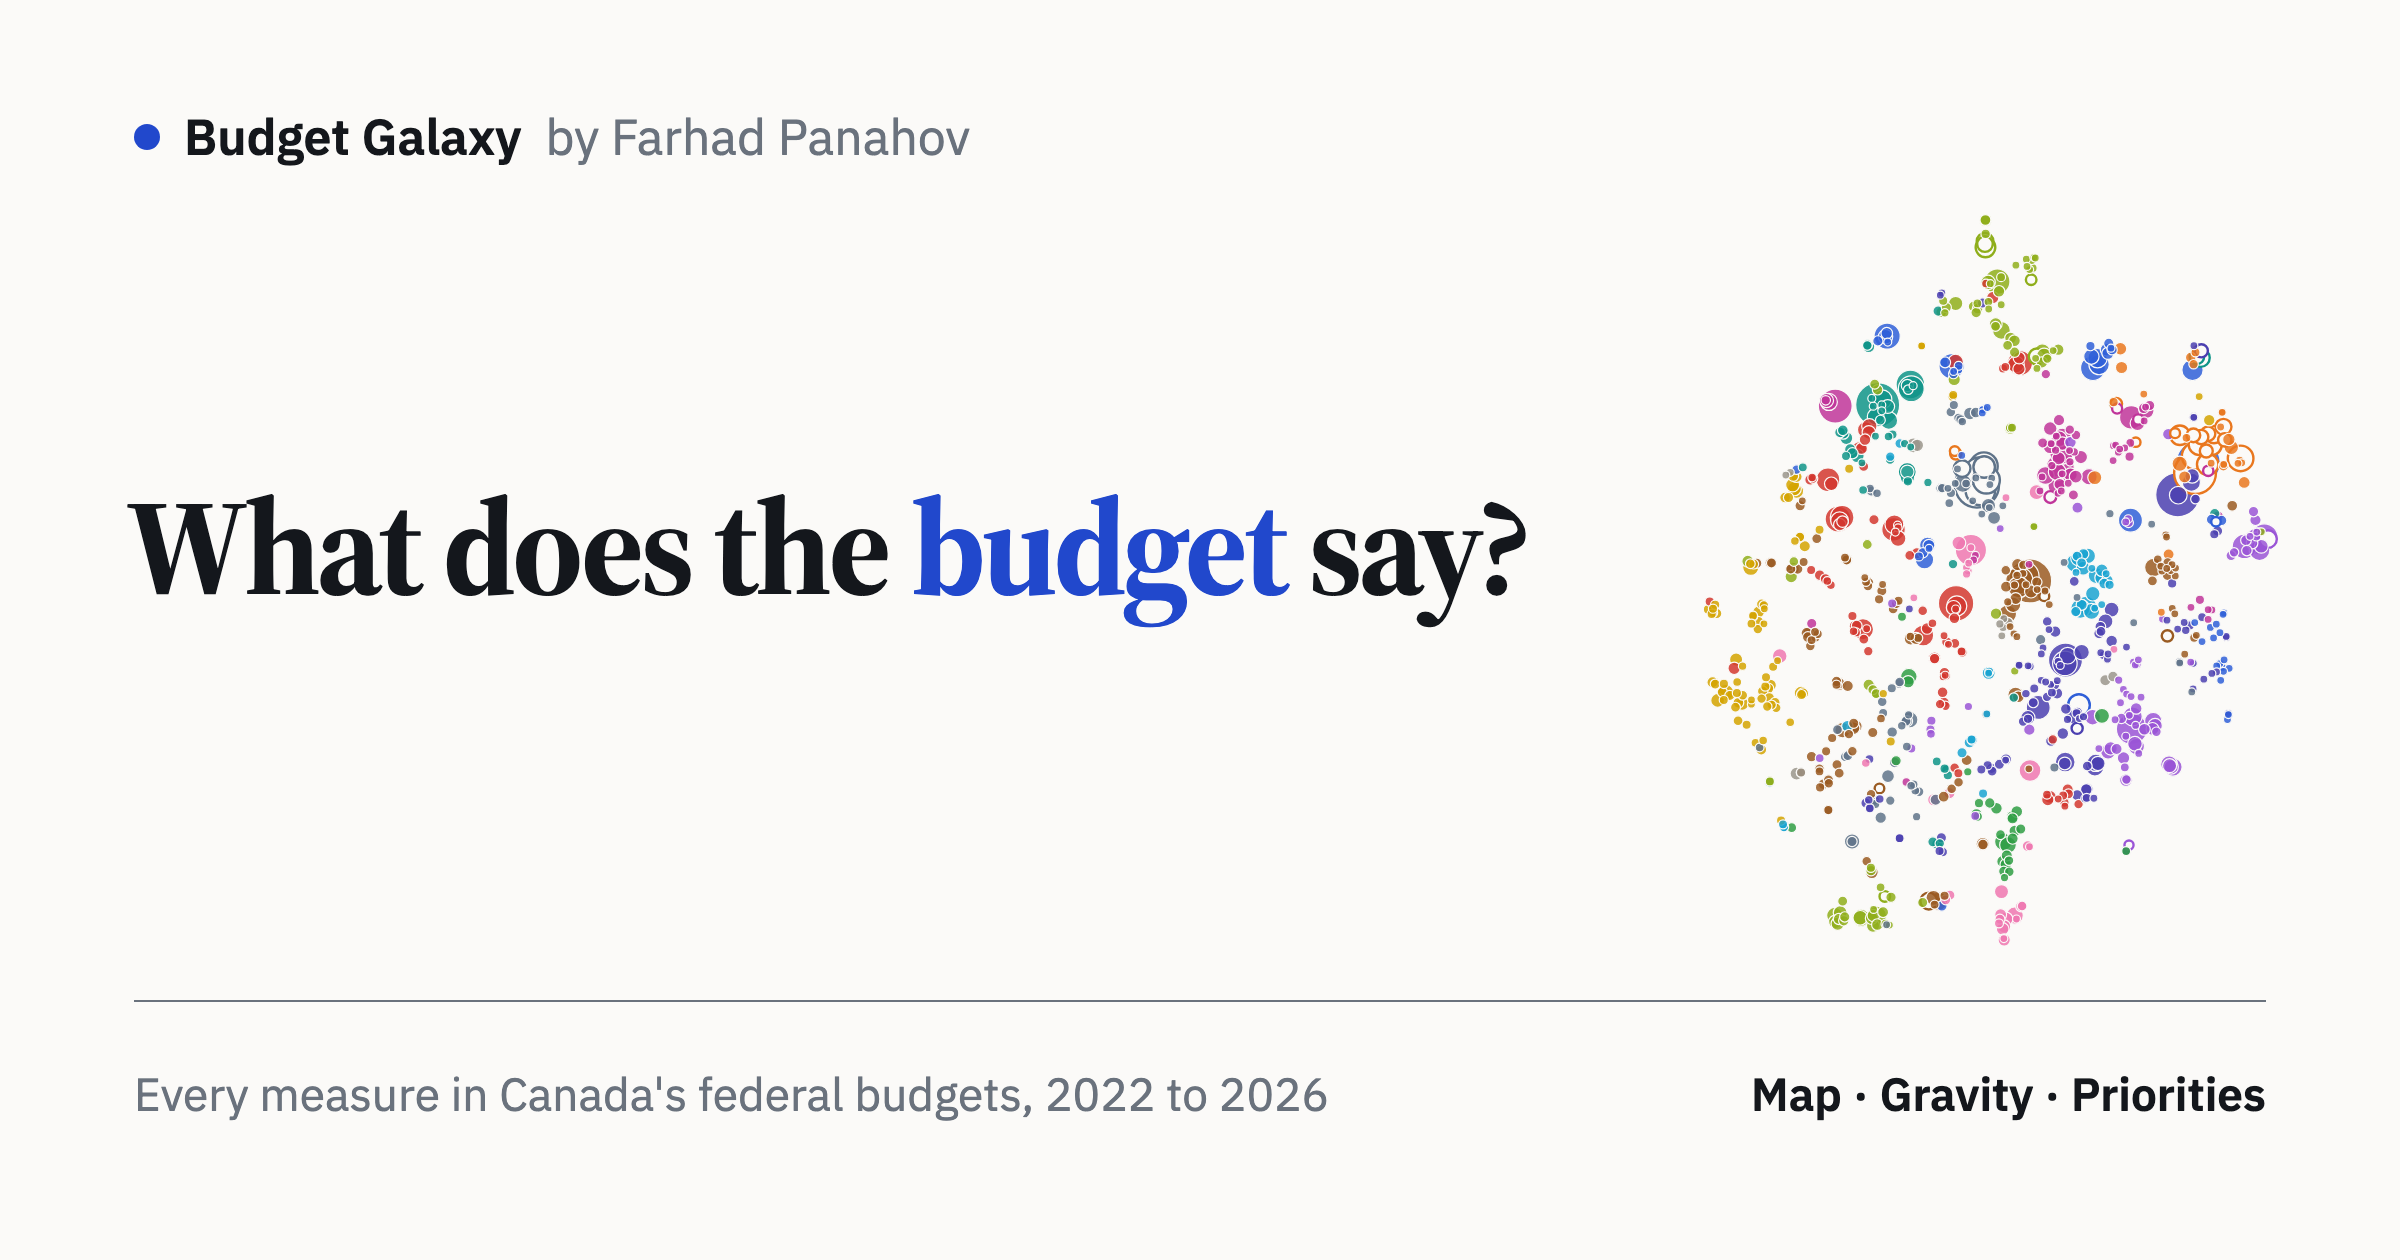
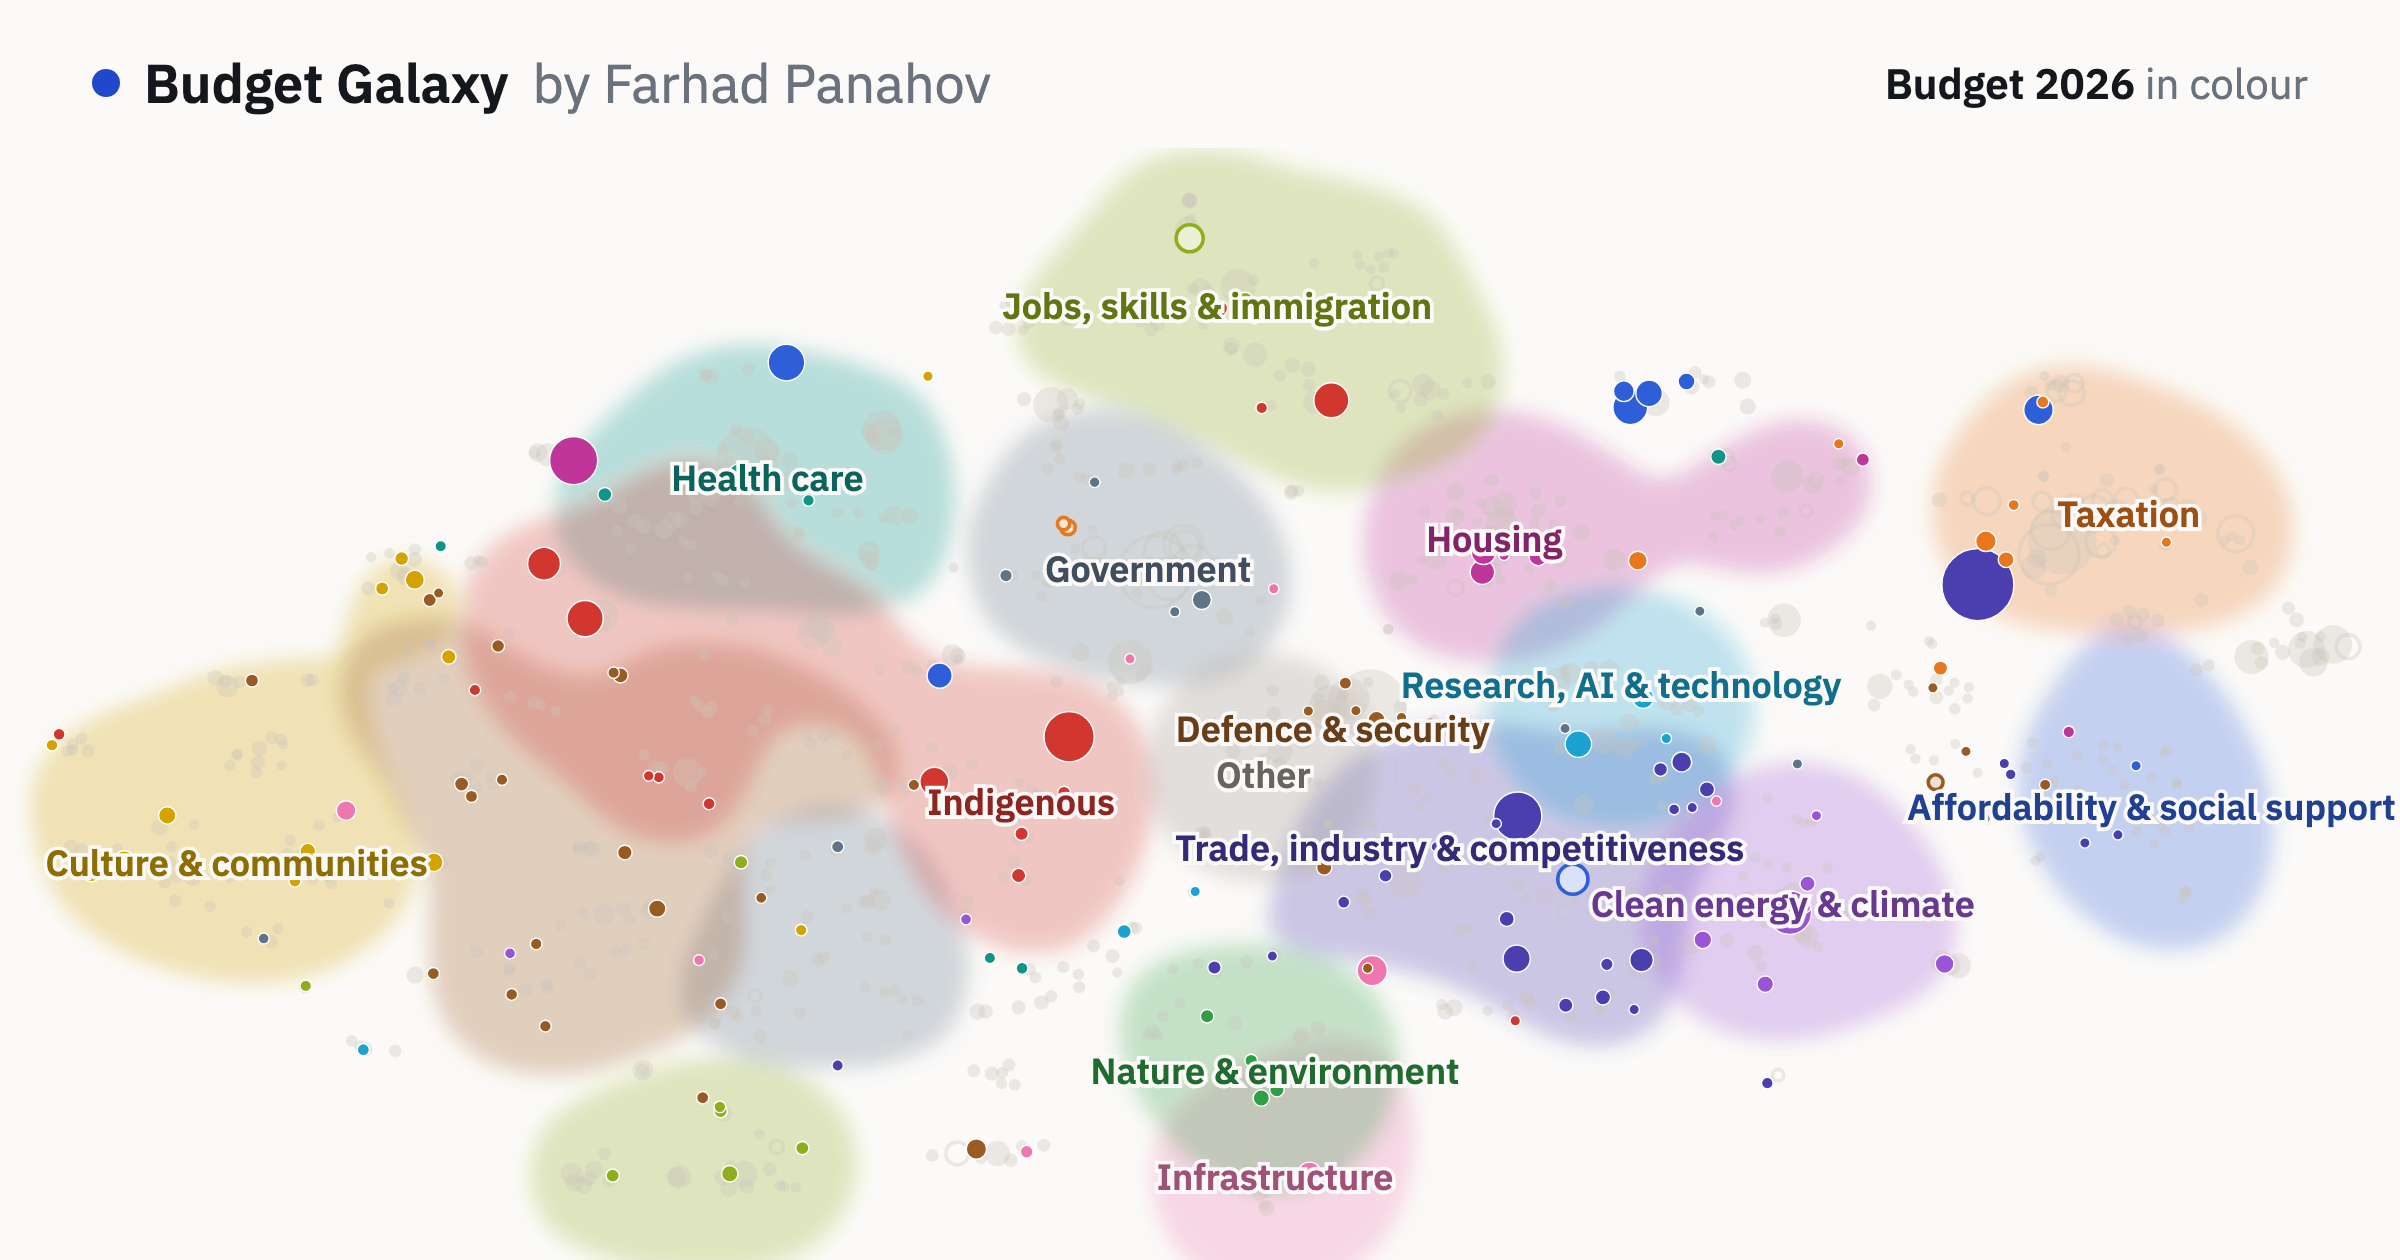
Preview picture: the Map, with the latest budget in colour

diff --git a/tools/og.html b/tools/og.html
@@ -2,33 +2,31 @@
 <html lang="en">
 <head>
 <meta charset="utf-8">
-<!-- The preview picture shown when the page's link is shared (site/og.png), in EconNobel's style: the name line, the
-     title, a grey rule and one line underneath; on the right, every measure on the map (from site/galaxy.json).
-     Rendered at 1200 x 630, twice as sharp (2400 x 1260), by headless Chrome; the command is in the README. -->
-<link href="https://fonts.googleapis.com/css2?family=Source+Serif+4:opsz,wght@8..60,700&family=IBM+Plex+Sans:wght@400;600&display=swap" rel="stylesheet">
+<!-- The preview picture shown when the page's link is shared (site/og.png): the Map view as on the page (shaded themes,
+     every measure as a dot, theme names), with the page's name on top left. The latest budget's measures are in colour and
+     the rest faint, as on the page (?year=2025 picks another budget, ?year=all colours every measure). Data:
+     site/galaxy.json. Rendered at
+     1200 x 630, twice as sharp (2400 x 1260), by headless Chrome; the command is in the README. -->
+<link href="https://fonts.googleapis.com/css2?family=IBM+Plex+Sans:wght@400;600&display=swap" rel="stylesheet">
 <style>
   html, body { margin: 0; width: 1200px; height: 630px; overflow: hidden; background: #fbfaf8; }
   body { position: relative; font-family: "IBM Plex Sans", sans-serif; color: #14171c; }
-  .brand { position: absolute; left: 67px; top: 52px; font-size: 25px; display: flex; align-items: center; gap: 12px; }
-  .brand .dot { width: 13px; height: 13px; border-radius: 50%; background: #2148cc; }
+  .top { position: absolute; left: 46px; right: 46px; top: 24px; display: flex; justify-content: space-between; align-items: center; }
+  .brand { display: flex; align-items: center; gap: 12px; font-size: 27px; }
+  .brand .dot { width: 14px; height: 14px; border-radius: 50%; background: #2148cc; }
   .brand b { font-weight: 600; }
   .brand span.by { color: #6a727d; }
-  h1 { position: absolute; left: 63px; top: 236px; margin: 0; font: 700 68px/1.1 "Source Serif 4", serif; letter-spacing: -.03em; }
-  h1 span { color: #2148cc; }
-  .rule { position: absolute; left: 67px; right: 67px; top: 500px; height: 1px; background: #6a727d; }
-  .foot { position: absolute; left: 67px; right: 67px; top: 532px; display: flex; justify-content: space-between; font-size: 23px; color: #6a727d; }
-  .foot b { color: #14171c; font-weight: 600; }
-  svg { position: absolute; right: 56px; top: 100px; }
+  .note { font-size: 21px; color: #6a727d; }
+  .note b { color: #14171c; font-weight: 600; }
+  svg { position: absolute; left: 0; top: 74px; }
 </style>
 </head>
 <body>
-  <div class="brand"><span class="dot"></span><b>Budget Galaxy</b><span class="by">by Farhad Panahov</span></div>
-  <h1>What does the <span>budget</span> say?</h1>
-  <svg id="g" width="300" height="380"></svg>
-  <div class="rule"></div>
-  <div class="foot"><span>Every measure in Canada's federal budgets, 2022 to 2026</span><span><b>Map · Gravity · Priorities</b></span></div>
+  <div class="top"><div class="brand"><span class="dot"></span><b>Budget Galaxy</b><span class="by">by Farhad Panahov</span></div><div class="note" id="note"></div></div>
+  <svg id="map" width="1200" height="556"></svg>
+<script src="https://cdn.jsdelivr.net/npm/d3@7.9.0/dist/d3.min.js"></script>
 <script>
-// the page's theme colours (site/index.html)
+// the page's theme colours and map settings (site/index.html)
 const COLOURS = {
   "Defence & security": "#9a5b22", "Housing": "#c0359a", "Health care": "#0f9488", "Affordability & social support": "#2f5fd8",
   "Jobs, skills & immigration": "#8fae1b", "Indigenous": "#d2372f", "Infrastructure": "#ee77b0",
@@ -36,19 +34,54 @@ const COLOURS = {
   "Research, AI & technology": "#1aa3d1", "Taxation": "#e9771e", "Culture & communities": "#d4a300", "Government": "#5f7389",
   "Other": "#9a958c",
 };
+const OFF = "#c9c4bb", W = 1200, H = 556, pad = 26, FS = 18;
+const asked = new URLSearchParams(location.search).get("year");   // none: the latest budget; "all": every measure in colour
 fetch("../site/galaxy.json").then((r) => r.json()).then((d) => {
-  const svg = document.getElementById("g"), W = 300, H = 380, pad = 10, NS = "http://www.w3.org/2000/svg";
-  const r = (m) => (m.money == null ? 2 : Math.min(11, 2.1 + 1.9 * Math.sqrt(Math.abs(m.money))));
-  // biggest first, so small dots sit on top
-  d.measures.slice().sort((a, b) => Math.abs(b.money || 0) - Math.abs(a.money || 0)).forEach((m) => {
-    const c = document.createElementNS(NS, "circle");
-    c.setAttribute("cx", pad + m.x * (W - 2 * pad)); c.setAttribute("cy", pad + (1 - m.y) * (H - 2 * pad)); c.setAttribute("r", r(m));
-    const col = COLOURS[d.categories[m.cat].name];
-    if (m.money != null && m.money < 0) { c.setAttribute("fill", "#fbfaf8"); c.setAttribute("stroke", col); c.setAttribute("stroke-width", 1.2); }
-    else { c.setAttribute("fill", col); c.setAttribute("fill-opacity", 0.85); c.setAttribute("stroke", "#fbfaf8"); c.setAttribute("stroke-width", 0.6); }
-    svg.append(c);
+  const M = d.measures, C = d.categories, pick = asked === "all" ? null : +asked || d.years[d.years.length - 1];
+  C.forEach((c) => { c.colour = COLOURS[c.name] || "#858c96"; });
+  document.getElementById("note").innerHTML = pick
+    ? `<b>Budget ${pick}</b> in colour`
+    : `Every measure in Canada's federal budgets, ${d.years[0]} to ${d.years[d.years.length - 1]}`;
+  const svg = d3.select("#map"), x = d3.scaleLinear([0, 1], [pad, W - pad]), y = d3.scaleLinear([0, 1], [H - pad, pad]);
+  svg.append("defs").html(`<filter id="soft" x="-10%" y="-10%" width="120%" height="120%"><feGaussianBlur stdDeviation="5"/></filter>`);
+  // each theme's area: a smoothed density of its dots, cut at about a fifth of its peak; the patch holding most of its
+  // measures, plus any other holding a quarter or more of them
+  const geo = d3.geoPath(), bw = Math.max(14, 0.028 * W);
+  const shapes = C.map((c) => {
+    const pts = M.filter((m) => m.cat === c.id);
+    const cs = d3.contourDensity().x((m) => x(m.x)).y((m) => y(m.y)).size([W, H]).bandwidth(bw).thresholds(20)(pts);
+    const peak = cs[cs.length - 1].value, shape = cs.find((s) => s.value >= peak * 0.3) || cs[0];
+    const counted = shape.coordinates.map((poly) => ({ poly, n: pts.filter((m) => d3.polygonContains(poly[0], [x(m.x), y(m.y)])).length }));
+    const most = d3.max(counted, (p) => p.n);
+    return { c, shape: { type: "MultiPolygon", coordinates: counted.filter((p) => p.n === most || p.n >= 0.25 * pts.length).map((p) => p.poly) } };
   });
-  document.body.dataset.ready = "1";
+  svg.append("g").attr("filter", "url(#soft)").selectAll("path").data(shapes).join("path")
+    .attr("d", (s) => geo(s.shape)).attr("fill", (s) => s.c.colour).attr("fill-opacity", 0.27);
+  // the dots: biggest first (small ones on top); the picked budget's measures last, in front
+  const r = d3.scaleSqrt([0, 30], [2.6, 18]).clamp(true), rad = (m) => (m.money != null ? r(Math.abs(m.money)) : 2.6);
+  const on = (m) => !pick || m.year === pick, saving = (m) => m.money != null && m.money < 0;
+  const order = M.slice().sort((a, b) => (on(a) - on(b)) || Math.abs(b.money || 0) - Math.abs(a.money || 0));
+  svg.append("g").selectAll("circle").data(order).join("circle")
+    .attr("cx", (m) => x(m.x)).attr("cy", (m) => y(m.y)).attr("r", rad)
+    .attr("fill", (m) => (!on(m) ? (saving(m) ? "none" : OFF) : saving(m) ? d3.interpolateRgb("#fff", C[m.cat].colour)(0.18) : C[m.cat].colour))
+    .attr("stroke", (m) => (saving(m) ? (on(m) ? C[m.cat].colour : OFF) : on(m) ? "#fff" : "none"))
+    .attr("stroke-width", (m) => (saving(m) ? 1.8 : 0.7)).attr("opacity", (m) => (on(m) ? 1 : 0.32));
+  // the theme names on each theme's densest spot, pushed apart where they would overlap
+  const font = `600 ${FS}px IBM Plex Sans`, ctx = document.createElement("canvas").getContext("2d"); ctx.font = font;
+  const items = C.map((c) => ({ c, px: x(c.ax), py: y(c.ay), w: ctx.measureText(c.name).width + 8, h: FS + 4 }));
+  for (let round = 0; round < 60; round++) {
+    let moved = false;
+    for (let a = 0; a < items.length; a++) for (let b = a + 1; b < items.length; b++) {
+      const A = items[a], B = items[b], ox = (A.w + B.w) / 2 - Math.abs(A.px - B.px), oy = (A.h + B.h) / 2 - Math.abs(A.py - B.py);
+      if (ox > 0 && oy > 0) { const s = (A.py <= B.py ? -1 : 1) * (oy / 2 + 0.5); A.py += s; B.py -= s; moved = true; }
+    }
+    if (!moved) break;
+  }
+  items.forEach((it) => { it.px = Math.max(it.w / 2 + 4, Math.min(W - it.w / 2 - 4, it.px)); it.py = Math.max(FS + 2, Math.min(H - 6, it.py)); });
+  svg.append("g").selectAll("text").data(items).join("text").attr("x", (it) => it.px).attr("y", (it) => it.py + FS * 0.35)
+    .attr("text-anchor", "middle").attr("font-size", FS + "px").attr("font-weight", 600).attr("font-family", "IBM Plex Sans")
+    .attr("fill", (it) => d3.color(it.c.colour).darker(1.1)).attr("stroke", "#fbfaf8").attr("stroke-width", 4).attr("paint-order", "stroke")
+    .text((it) => it.c.name);
 });
 </script>
 </body>

diff --git a/site/index.html b/site/index.html
@@ -11,9 +11,9 @@
 <meta property="og:url" content="https://panahovf.github.io/budget-galaxy/">
 <meta property="og:title" content="What does the budget say?">
 <meta property="og:description" content="Every measure in Canada's federal budgets since 2022, in three views: what each budget is made of, how programs connect, and which priorities are rising or falling.">
-<!-- Raise the "?v=1" number whenever og.png changes: the new address makes LinkedIn and others fetch the new picture
+<!-- Raise the "?v=2" number whenever og.png changes: the new address makes LinkedIn and others fetch the new picture
      instead of showing a copy they saved earlier. -->
-<meta property="og:image" content="https://panahovf.github.io/budget-galaxy/og.png?v=1">
+<meta property="og:image" content="https://panahovf.github.io/budget-galaxy/og.png?v=2">
 <meta property="og:image:width" content="2400">
 <meta property="og:image:height" content="1260">
 <meta name="twitter:card" content="summary_large_image">

diff --git a/README.md b/README.md
@@ -9,7 +9,8 @@ rising up the list or falling off it). Part of [Farhad Panahov's website](https:
 - `site/` is the web page, published at [panahovf.github.io/budget-galaxy](https://panahovf.github.io/budget-galaxy/).
   - `index.html`: the page.
   - `galaxy.json`: everything the page draws. Written by step 5 below; don't edit it by hand.
-  - `og.png`: the preview picture shown when the link is shared (made from `tools/og.html`, see below).
+  - `og.png`: the preview picture shown when the link is shared: the Map, with the latest budget in colour (made from
+    `tools/og.html`, see below).
 - The five notebooks at the top, one per step, each saved with its output so its tables and checks can be read without
   running it; `data/` and `checks/` hold what they write, `manual/` the decisions made by hand.
 - `.github/workflows/publish.yml` publishes `site/` on every push to `main`.
